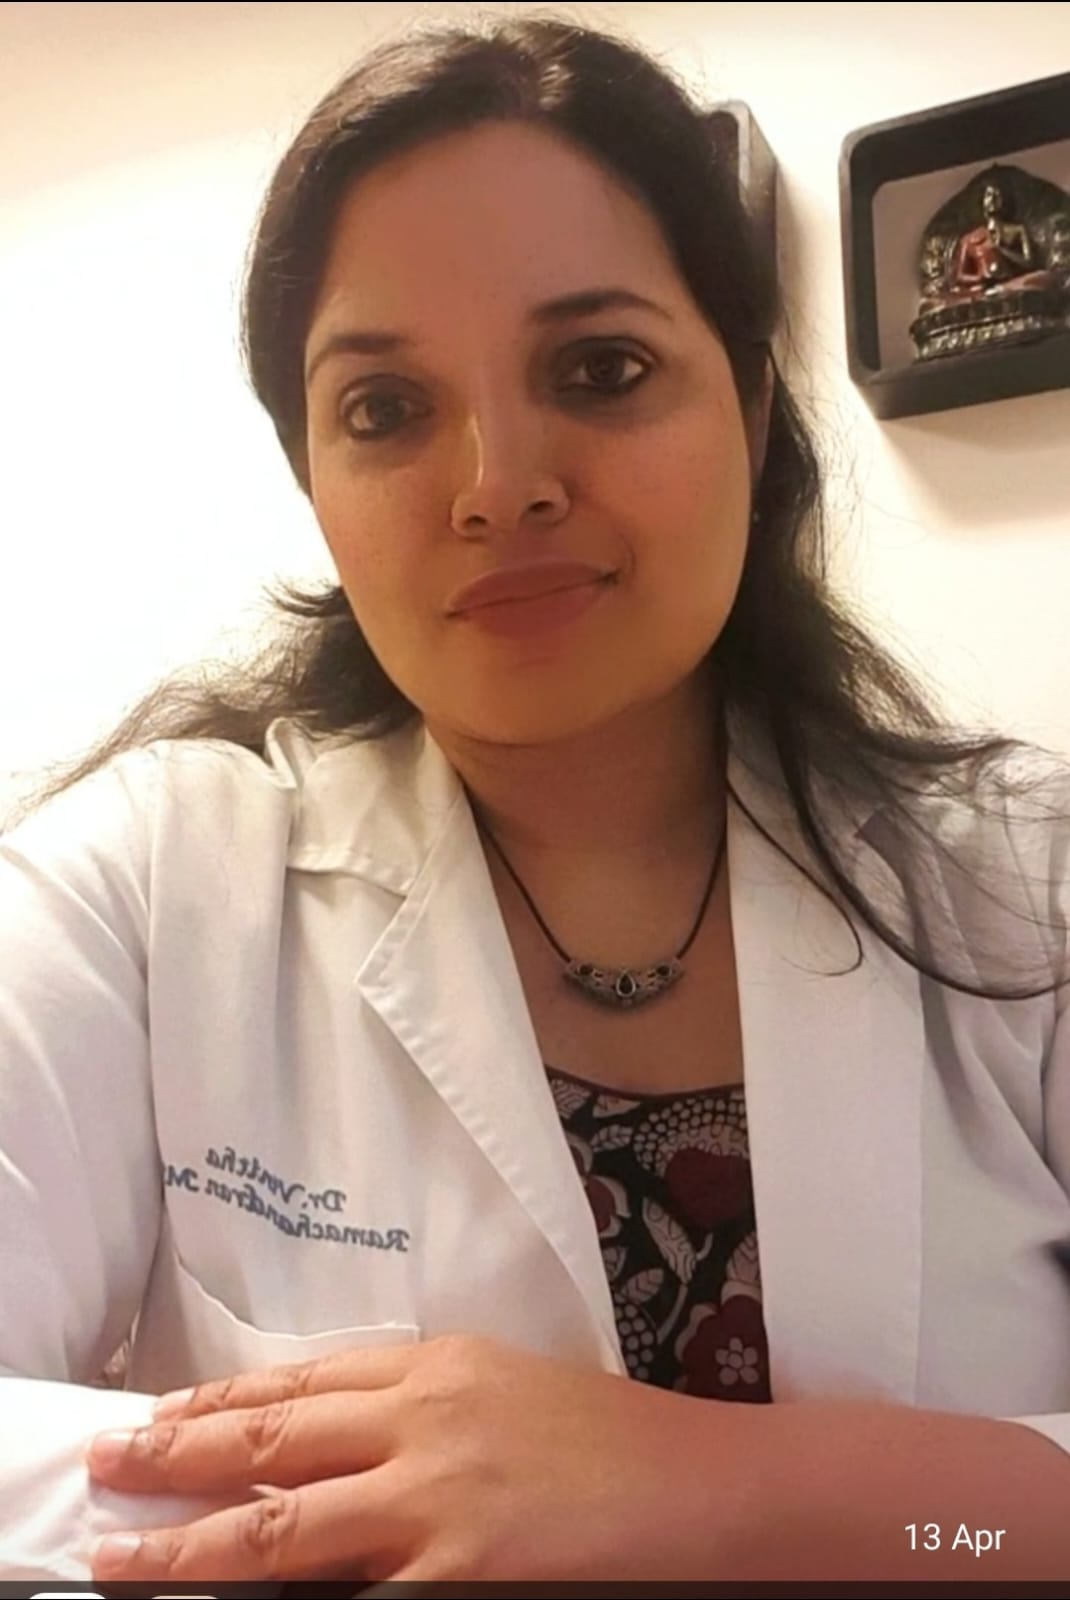
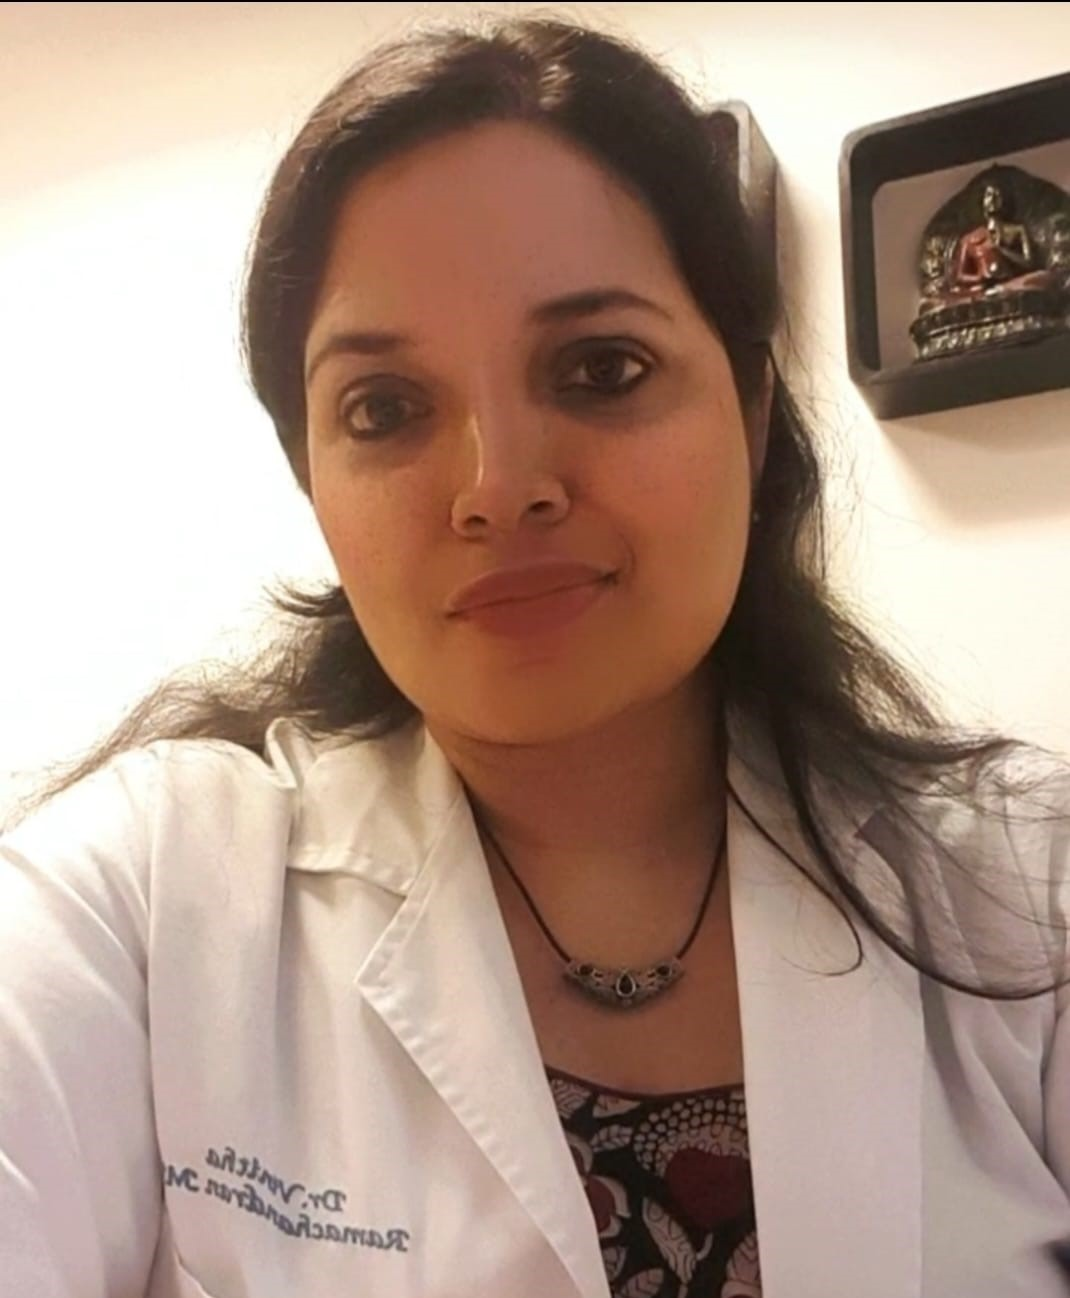
new push

diff --git a/src/app/faculties/page.tsx b/src/app/faculties/page.tsx
@@ -57,7 +57,7 @@ const faculties: Faculty[] = [
   { id: '50', name: "Dr.V.Ravindranath", role: "Faculty", type: "national", img: "/images/faculty/ravindran.jpg" },
   { id: '51', name: "Dr.Rimo C Mathews", role: "Faculty", type: "national", img: "/images/faculty/Dr.Rimo-C-Mathews.jpeg" },
   { id: '52', name: "Dr.T.Sasi Kumar", role: "Faculty", type: "national", img: "/images/faculty/DR. SASI KUMAR.jpg" },
-  { id: '53', name: "Dr.K.Sathyavani", role: "Faculty", type: "national", img: "/images/faculty/sathyavani.jpg" },
+  { id: '53', name: "Dr.Satyavani K", role: "Faculty", type: "national", img: "/images/faculty/sathyavani.jpg" },
   { id: '54', name: "Ms.Seena Rajasekar", role: "Faculty", type: "national", img: "/images/faculty/Mrs.Seena Rajsekar.jpg" },
   { id: '56', name: "Dr.Siva Shankari S", role: "Faculty", type: "national", img: "/images/faculty/Dr.Siva-Shankari-S.jpeg" },
   { id: '57', name: "Dr.G.Senthil", role: "Faculty", type: "national", img: "/images/faculty/Dr. G. Senthil.jpg" },
@@ -108,7 +108,7 @@ export default function FacultiesPage() {
             Our <span className="text-[#1F83C6]">Faculties</span>
           </h1>
           <p className="text-lg md:text-xl text-slate-300 font-medium max-w-2xl mx-auto">
-            Learn from the world's leading experts in diabetes and diabetic foot care.
+            Learn from the leading experts in diabetes and diabetic foot care.
           </p>
         </div>
       </div>
@@ -191,13 +191,13 @@ export default function FacultiesPage() {
                     {faculty.role}
                   </p>
                   
-                  <span className={`inline-block px-4 py-1.5 rounded-full text-[10px] font-extrabold uppercase tracking-widest border ${
+                  {/* <span className={`inline-block px-4 py-1.5 rounded-full text-[10px] font-extrabold uppercase tracking-widest border ${
                     faculty.type === 'international' 
                       ? 'text-[#F26522] border-[#F26522]/30 bg-[#F26522]/5' 
                       : 'text-[#1F83C6] border-[#1F83C6]/30 bg-[#1F83C6]/5'
                   }`}>
                     {faculty.type}
-                  </span>
+                  </span> */}
                 </div>
               </div>
             ))}
